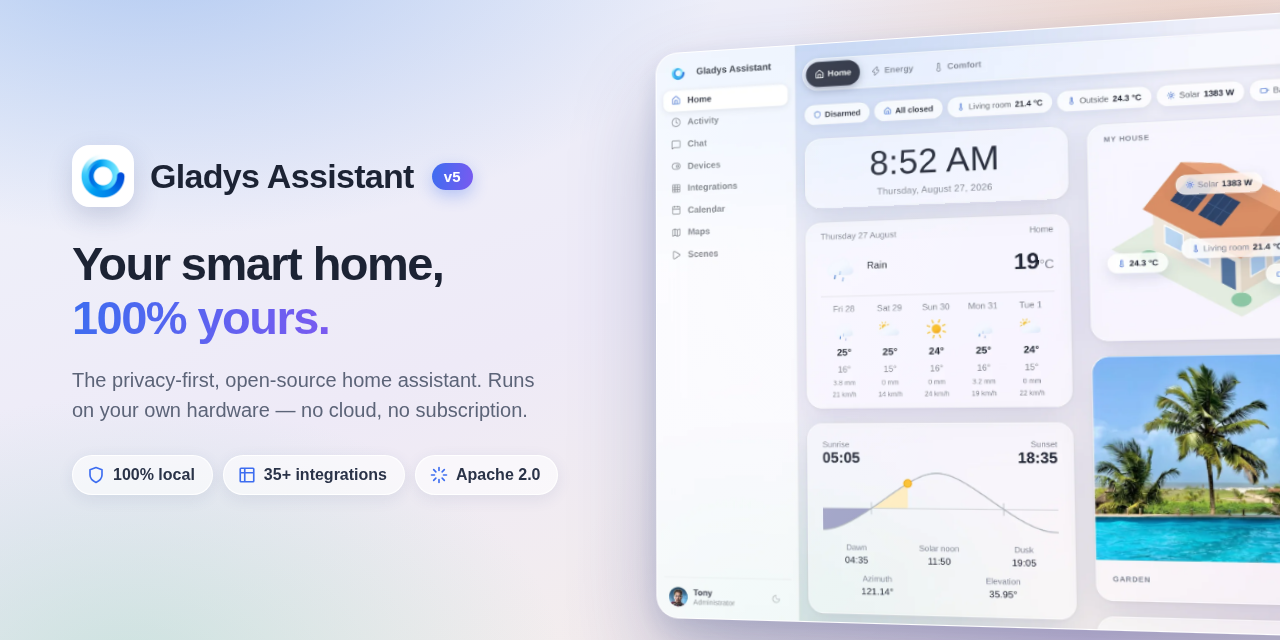
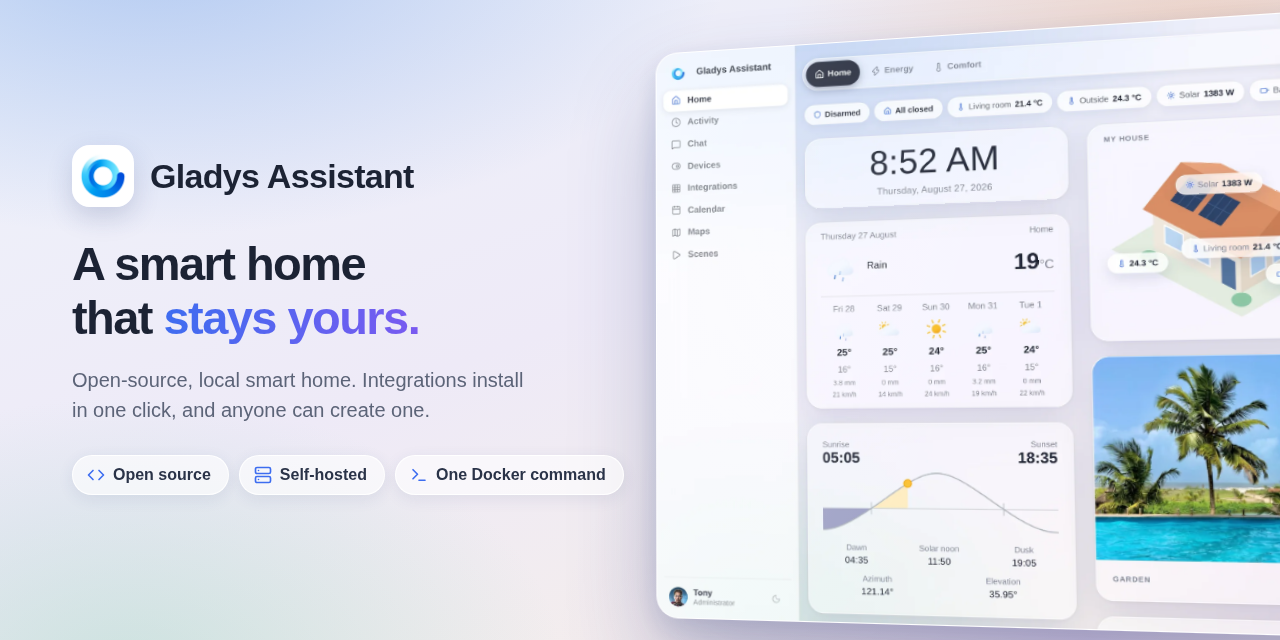
docs: rework the social preview copy after review
- Drop the "v5" badge, the version will change.
- Drop the integration count: with the external integrations there are
  hundreds of them, so no number is the right number here.
- Drop "no cloud, no subscription" and the em dash.
- Take the wording from gladysassistant.com instead: the hero headline
  "A smart home that stays yours.", its subtitle, and the hero badges.

Claude-Session: https://claude.ai/code/session_01H5DECvjQBqGBBW1HYXvTfb

diff --git a/.github/images/og-image/og-image.html b/.github/images/og-image/og-image.html
@@ -17,7 +17,7 @@
     font-family: 'Inter', -apple-system, sans-serif;
     color: #1c2334;
     position: relative;
-    /* Horizon glass scene — same recipe as the app's default dashboard theme */
+    /* Horizon glass scene: same recipe as the app's default dashboard theme */
     background-image:
       radial-gradient(76% 78% at 12% -10%, rgba(126, 166, 233, 0.55), transparent 60%),
       radial-gradient(62% 72% at 95% 8%, rgba(244, 190, 148, 0.5), transparent 55%),
@@ -59,19 +59,6 @@
     letter-spacing: -0.02em;
   }
 
-  .brand .version {
-    align-self: center;
-    margin-left: 2px;
-    padding: 5px 12px;
-    border-radius: 999px;
-    font-size: 15px;
-    font-weight: 700;
-    letter-spacing: 0.01em;
-    color: #fff;
-    background: linear-gradient(100deg, #3d6df0 0%, #7a5af0 100%);
-    box-shadow: 0 6px 16px rgba(61, 109, 240, 0.32);
-  }
-
   h1 {
     font-size: 47px;
     line-height: 1.14;
@@ -100,7 +87,7 @@
   .chips {
     display: flex;
     gap: 10px;
-    flex-wrap: wrap;
+    flex-wrap: nowrap;
   }
 
   .chip {
@@ -179,22 +166,22 @@
     <div class="brand">
       <img src="../../../front/src/assets/icons/android-icon-512x512.png" alt="">
       <span class="name">Gladys Assistant</span>
-      <span class="version">v5</span>
     </div>
-    <h1>Your smart home,<br><em>100% yours.</em></h1>
-    <p class="sub">The privacy-first, open-source home assistant. Runs on your own hardware — no cloud, no subscription.</p>
+    <h1>A smart home<br>that <em>stays yours.</em></h1>
+    <p class="sub">Open-source, local smart home. Integrations install in one click,
+      and anyone can create one.</p>
     <div class="chips">
       <div class="chip">
-        <svg viewBox="0 0 24 24"><path d="M12 22s8-4 8-10V5l-8-3-8 3v7c0 6 8 10 8 10z"/></svg>
-        100% local
+        <svg viewBox="0 0 24 24"><polyline points="16 18 22 12 16 6"/><polyline points="8 6 2 12 8 18"/></svg>
+        Open source
       </div>
       <div class="chip">
-        <svg viewBox="0 0 24 24"><path d="M9 3H4a1 1 0 0 0-1 1v5m6-6h11a1 1 0 0 1 1 1v5M9 3v18M3 9v11a1 1 0 0 0 1 1h5m-6-12h18m0 0v11a1 1 0 0 1-1 1H9"/></svg>
-        35+ integrations
+        <svg viewBox="0 0 24 24"><rect x="2" y="2" width="20" height="8" rx="2"/><rect x="2" y="14" width="20" height="8" rx="2"/><path d="M6 6h.01M6 18h.01"/></svg>
+        Self-hosted
       </div>
       <div class="chip">
-        <svg viewBox="0 0 24 24"><path d="M12 2v4m0 12v4M2 12h4m12 0h4M4.9 4.9l2.9 2.9m8.4 8.4 2.9 2.9M4.9 19.1l2.9-2.9m8.4-8.4 2.9-2.9"/></svg>
-        Apache 2.0
+        <svg viewBox="0 0 24 24"><polyline points="4 17 10 11 4 5"/><path d="M12 19h8"/></svg>
+        One Docker command
       </div>
     </div>
   </div>

diff --git a/.github/images/og-image/README.md b/.github/images/og-image/README.md
@@ -4,7 +4,7 @@
 **Settings → General → Social preview**. GitHub reuses it for the Open Graph
 and Twitter cards shown when the repository is shared.
 
-It is generated from `og-image.html`, which reuses the v5 dashboard screenshot
+It is generated from `og-image.html`, which reuses the dashboard screenshot
 (`../gladys-dashboard-en.webp`), the app icon and the "Horizon" glass gradient
 of the default dashboard theme (`front/src/routes/dashboard/style.css`).
 
